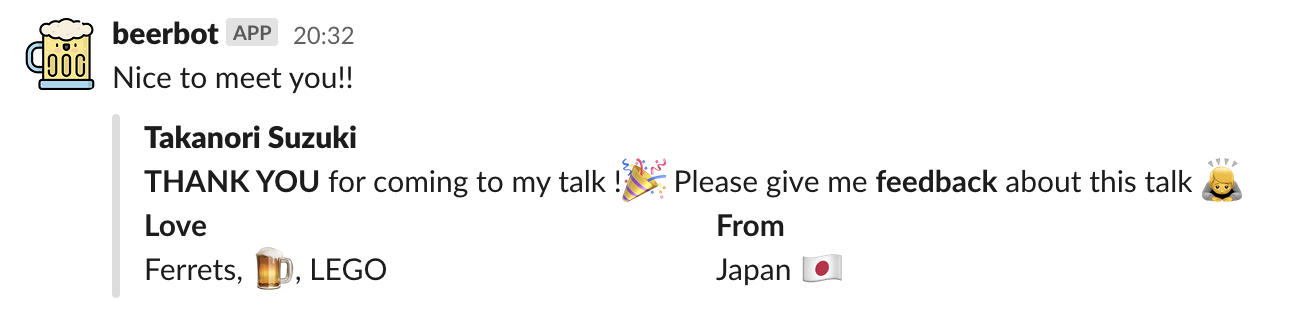
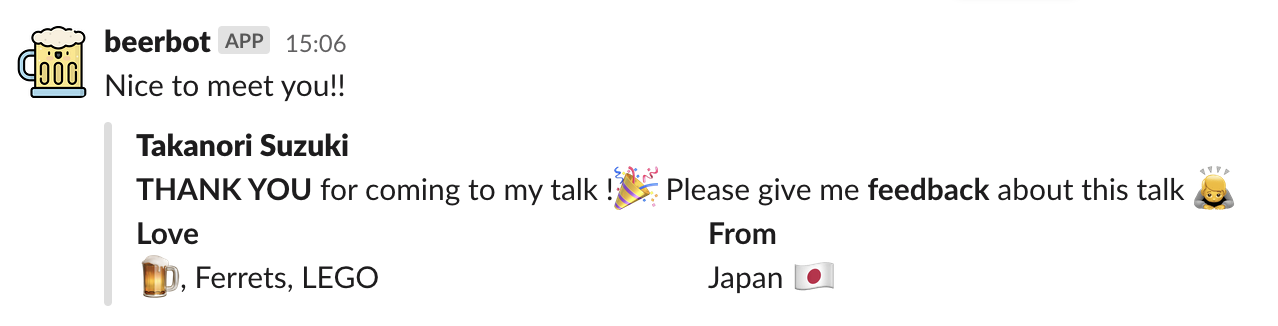
refs #46 update slides

diff --git a/20220429pyconus/index.rst b/20220429pyconus/index.rst
@@ -298,10 +298,108 @@ Message **Attachments**
 
 * see: `Reference: Secondary message attachments <https://api.slack.com/reference/messaging/attachments>`_
 
-.. attachmentsのドキュメントはここにあります
+.. attachmentsのBlock
 
 **Block** Kit 🧱
 ================
+
+**Block** Kit
+-------------
+  A clean and consistent UI framework for Slack apps
+
+* Blocks
+
+  * Elements
+
+    * Composition objects
+* see: `Block Kit <https://api.slack.com/block-kit>`_
+
+* TODO: 図にする
+* Block Kitは1つ以上のBlockの中にElementを配置してメッセージを作成する
+
+**Example** of Block Kit
+------------------------
+.. code-block:: python
+
+   blocks = [{
+       "type": "section",
+       "text": {
+            "text": "*THANK YOU* for coming to my talk !:tada: Please give me *feedback* about this talk :bow:",
+            "type": "mrkdwn"
+       },
+       "fields": [
+            {"type": "mrkdwn", "text": "*Love*"},
+            {"type": "mrkdwn", "text": "*From*"},
+            {"type": "plain_text", "text": ":beer:, Ferrets, LEGO"},
+            {"type": "plain_text", "text": "Japan :jp:"},
+       ],
+   }]
+   response = webhook.send(blocks=blocks)
+
+.. image:: images/webhook-blocks.png
+
+**Seciton** Block
+-----------------
+* Section Block with ``text`` and ``fields`` Field
+
+.. revealjs-code-block:: python
+   :data-line-numbers: 2,3,7
+
+   blocks = [{
+       "type": "section",  # Section Block
+       "text": {  # text Field
+            "text": "*THANK YOU* for coming to my talk !:tada: Please give me *feedback* about this talk :bow:",
+            "type": "mrkdwn"
+       },
+       "fields": [  # fields Field
+            {"type": "mrkdwn", "text": "*Love*"},
+            {"type": "mrkdwn", "text": "*From*"},
+            {"type": "plain_text", "text": ":beer:, Ferrets, LEGO"},
+            {"type": "plain_text", "text": "Japan :jp:"},
+       ],
+   }]
+   response = webhook.send(blocks=blocks)
+
+* see: `Section Block <https://api.slack.com/reference/block-kit/blocks#section>`_
+
+Block Kit **Builder**
+---------------------
+* ブロックキット複雑なのでBuilderで作れる
+* `app.slack.com/block-kit-builder/ <https://app.slack.com/block-kit-builder/>`_
+
+.. raw:: html
+
+   <video src="../_images/block-kit-buiilder.mov"></video>
+
+.. image:: images/block-kit-buiilder.mov
+
+Summary of Incoming **Webhooks**
+================================
+* **Easy** to post messages from programs 📬
+* Create complex messages with **Block Kit** 🧱
+* But **one-way** (program➡Webhook➡Slack)
+
+Interactive bot with **Bolt** ⚡
+=================================
+
+System overview
+---------------
+* TODO: 図を入れる
+
+**Create** bot user 🤖
+======================
+
+**Create** bot user
+-------------------
+* Create bot user
+
+  1. (Create a Slack app)
+  2. 
+
+Bolt for Python
+---------------
+* 
+* see: `Bolt for Python <https://slack.dev/bolt-python/concepts>`_
 
 Outline
 =======
